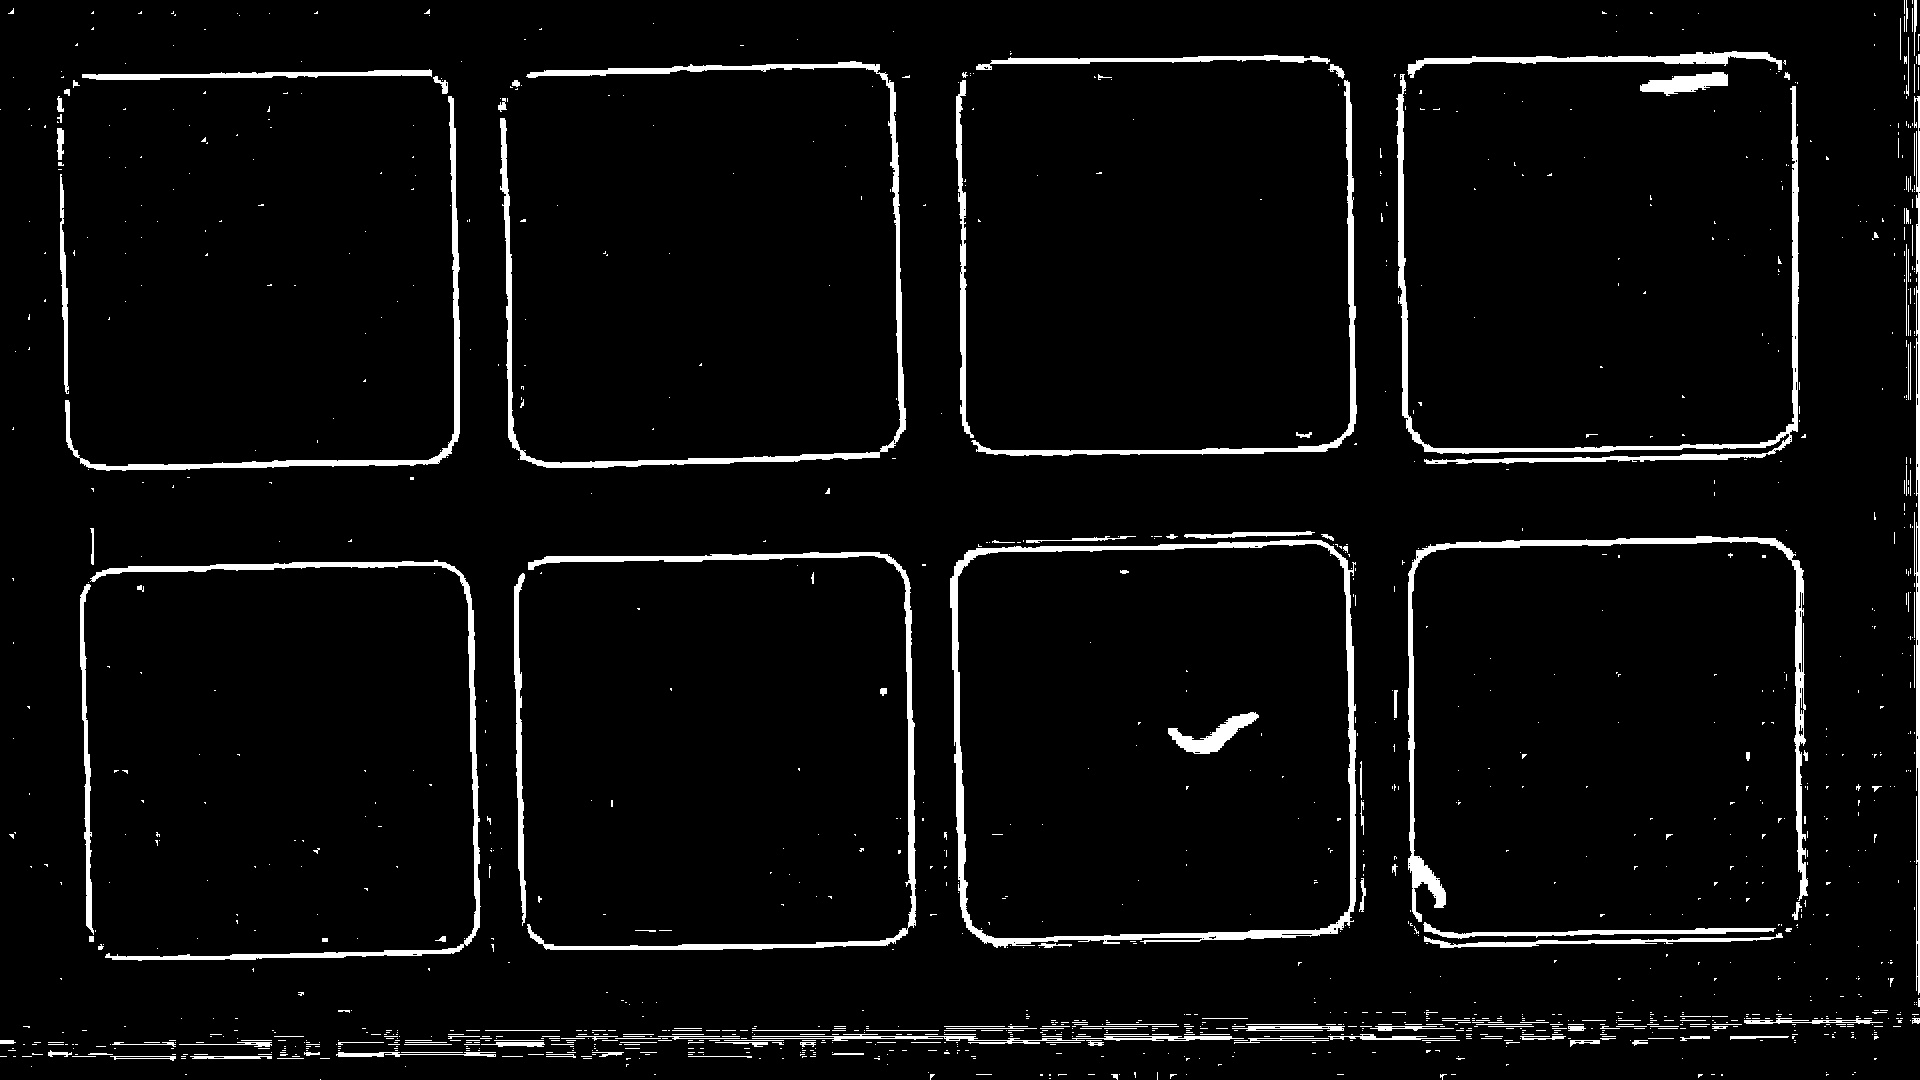
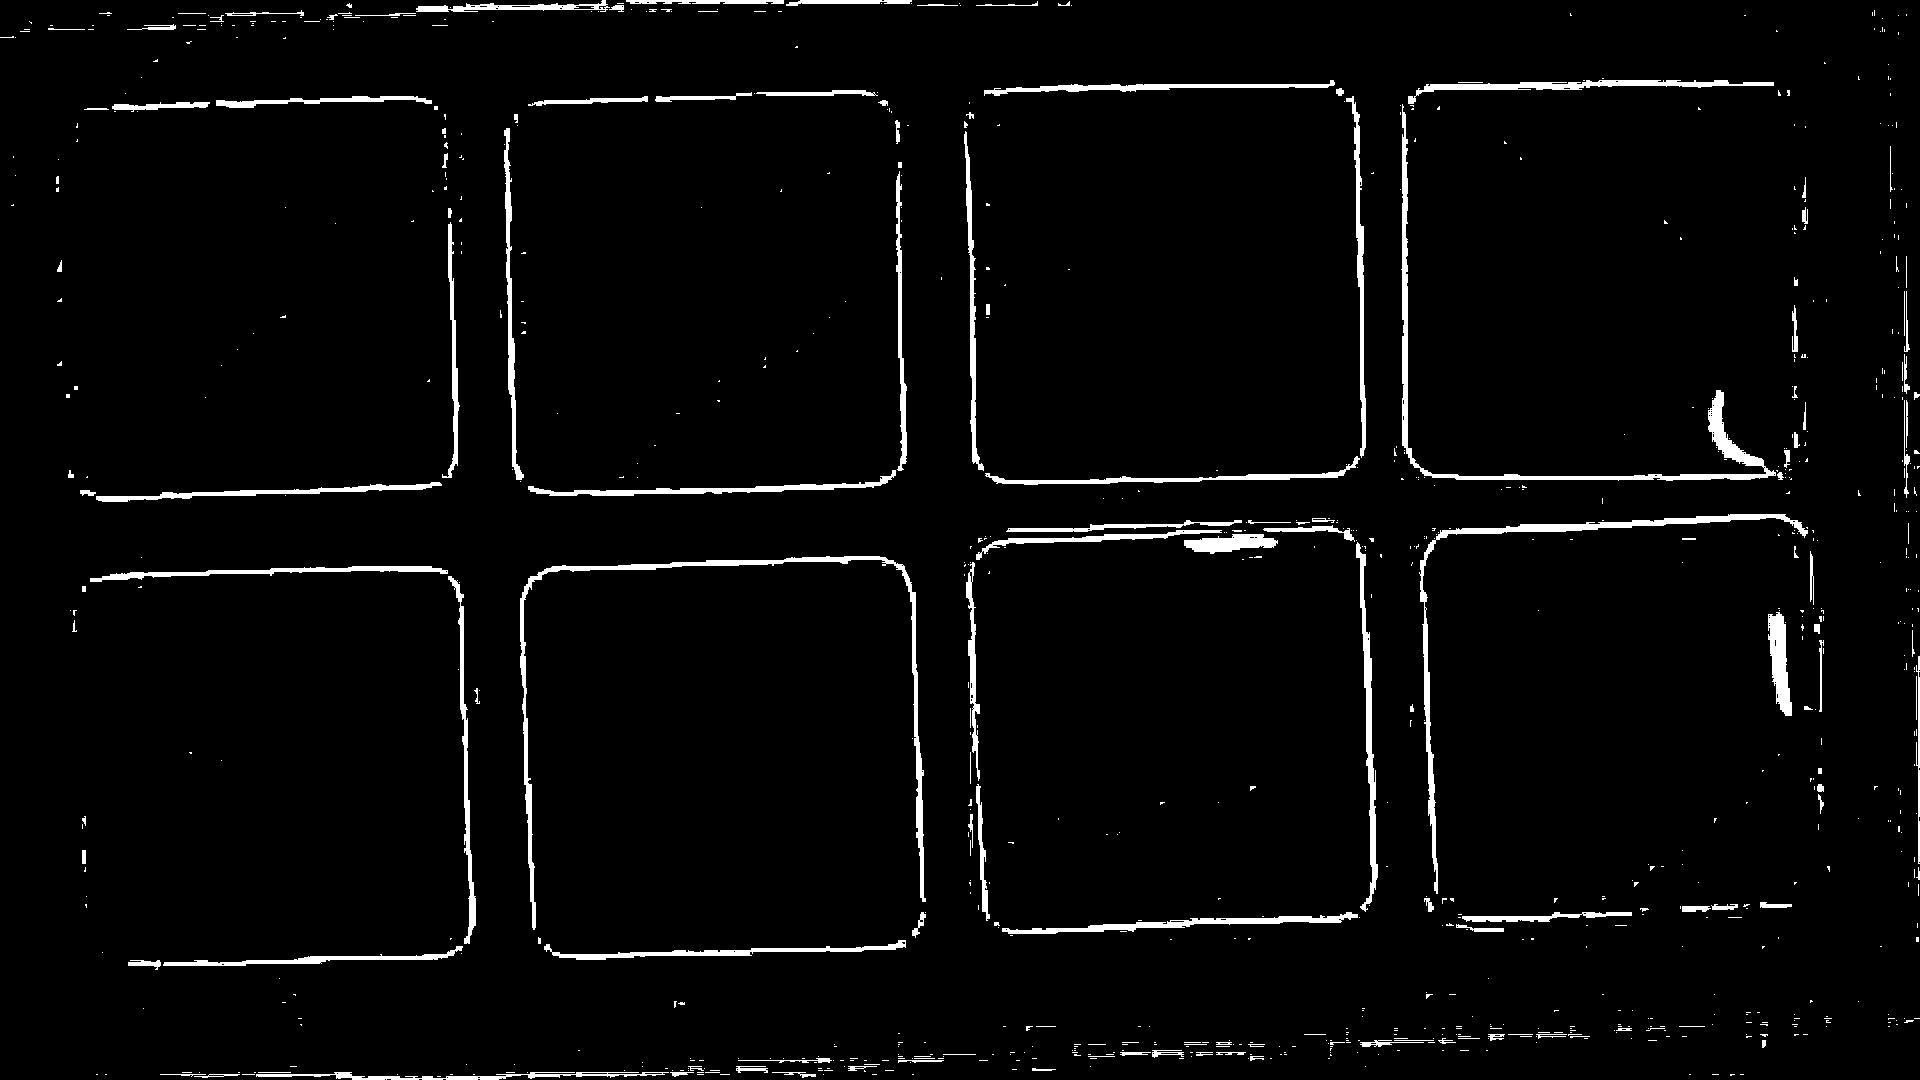
optimizations

diff --git a/scripts/train_real_data.py b/scripts/train_real_data.py
@@ -247,10 +247,10 @@ def extract_8_dishes_to_frame_folders(
         logger.info(f"Generated even roi_boxes with padding: {roi_boxes}")
         return roi_boxes
 
-    def replace_even(even_rois, detected_rois, tolerance=40):
+    def replace_even(even_rois, detected_rois, tolerance=250):
         replaced = []
         for i in range(len(even_rois)):
-            x, y, w, h = roi
+            x, y, w, h = even_rois[i]
             for f_roi in detected_rois:
                 fx, fy, fw, fh = f_roi
                 if (
@@ -296,6 +296,8 @@ def extract_8_dishes_to_frame_folders(
 
         roi_boxes = roi_boxes[:8]
         logger.info(f"Detected roi_boxes: {roi_boxes}")
+    
+    logger.info(f"Final roi_boxes used for extraction: {roi_boxes}")
 
     stem = os.path.splitext(os.path.basename(video_path))[0]
     lower_name = os.path.splitext(os.path.basename(video_path))[0].lower()

diff --git a/src/proc/find_edges_adaptive.py b/src/proc/find_edges_adaptive.py
@@ -100,7 +100,7 @@ def find_shapes_first_frame(
     logger.info(f"Found {len(contours)} raw contours. Filtering...")
     for contour in contours:
         (x, y, w, h) = cv2.boundingRect(contour)
-        if w > 50 and h > 50:
+        if w > 80 and h > 80:
             frame_rois.append((x, y, w, h))
             cv2.rectangle(frame, (x, y), (x + w, y + h), (0, 255, 0), 2)
 
